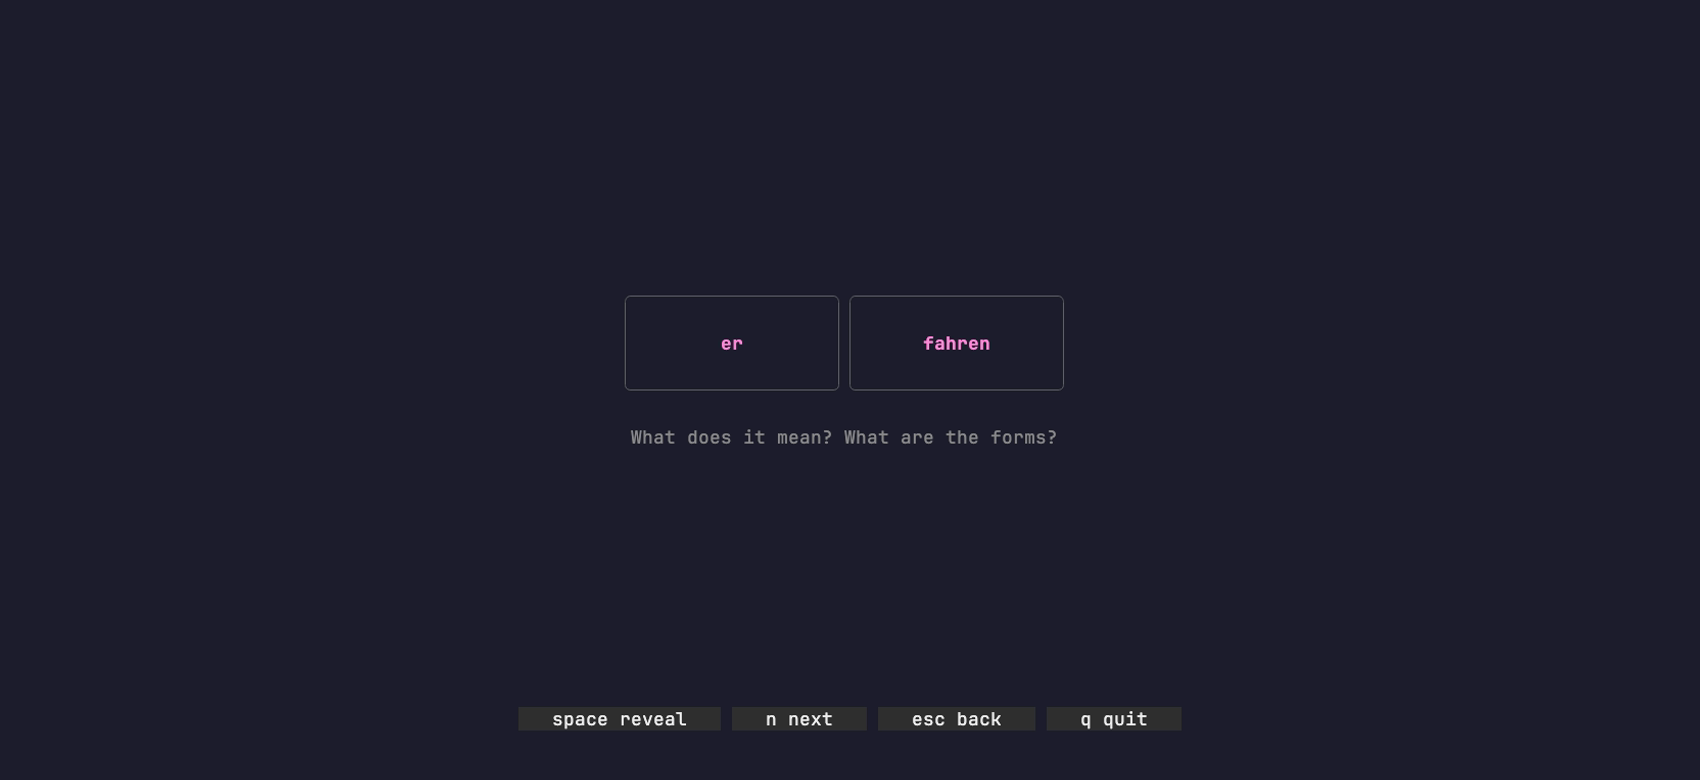
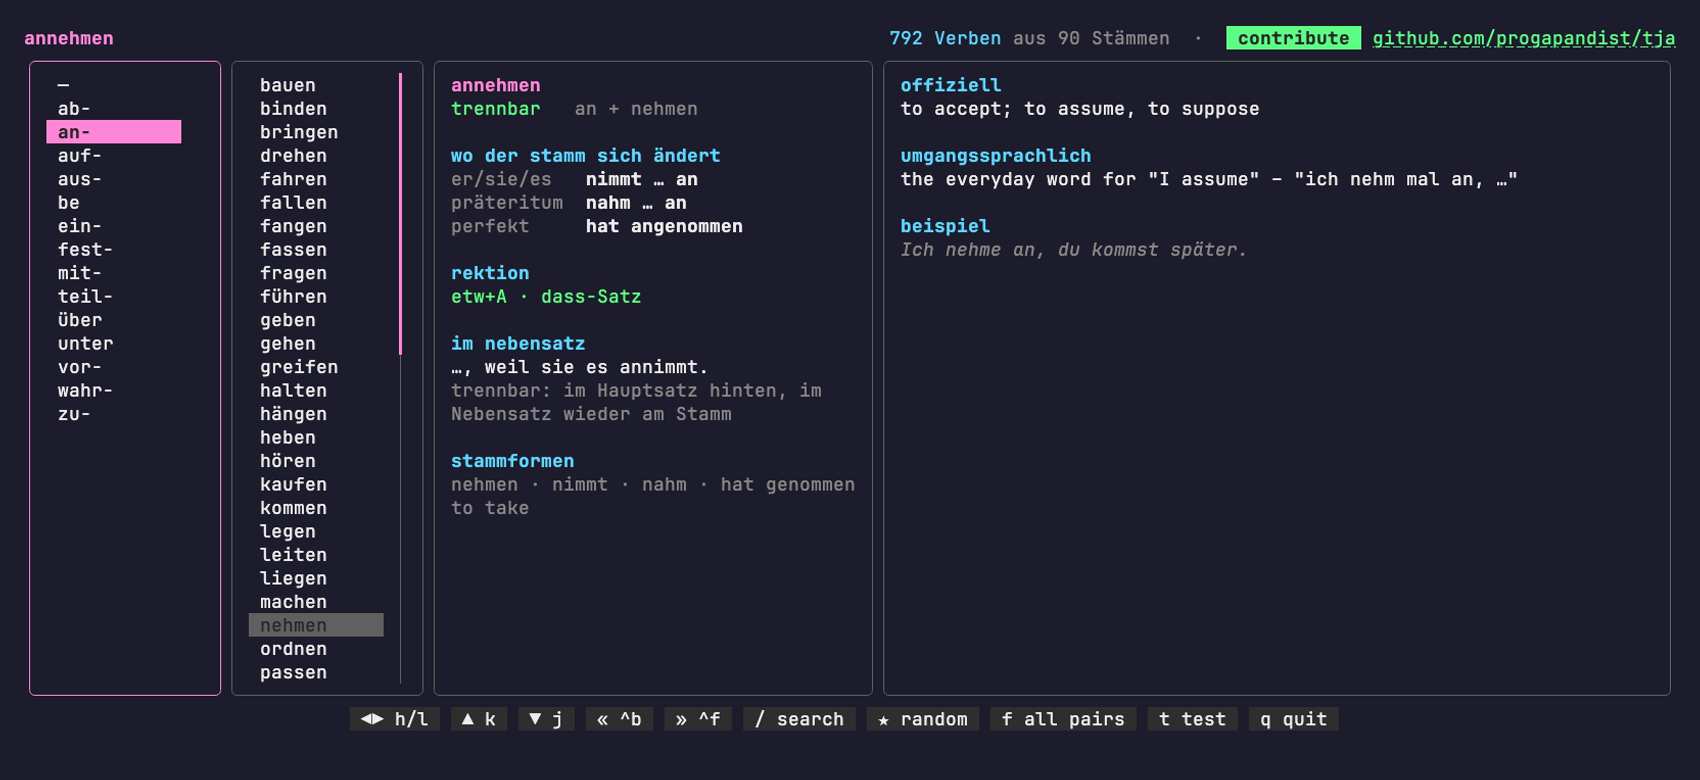
tja: lay the answer card out on a label column instead of centring every line

diff --git a/main.go b/main.go
@@ -485,32 +485,60 @@ func (m model) testView() string {
 	reel := func(s string) string {
 		return box.Width(18).Align(lipgloss.Center).Render("\n" + wordStyle.Render(s) + "\n")
 	}
-	card := []string{
-		lipgloss.JoinHorizontal(lipgloss.Top, reel(m.prefixLabel(v.Prefix())), reel(v.Stem.Name)),
-		"",
-	}
+	reels := lipgloss.JoinHorizontal(lipgloss.Top, reel(m.prefixLabel(v.Prefix())), reel(v.Stem.Name))
+
+	card := []string{reels, ""}
 	if !m.revealed {
-		card = append(card,
-			metaStyle.Render("What does it mean? What are the forms?"))
+		card = append(card, "", metaStyle.Render("What does it mean? What are the forms?"))
 	} else {
-		present, past, perfect := v.Forms()
-		wrap := lipgloss.NewStyle().Width(min(66, max(20, m.w-4)))
-		card = append(card,
-			wordStyle.Render(v.Name)+"   "+kindOf(*v),
-			formStyle.Render(present+"  ·  "+past+"  ·  "+perfect),
-			useStyle.Render(v.Use),
-			bodyStyle.Render(v.Nebensatz()),
-			"",
-			wrap.Render(headingStyle.Render("offiziell   ")+bodyStyle.Render(v.Official)),
-			wrap.Render(headingStyle.Render("umgangssprachlich   ")+bodyStyle.Render(v.Colloquial)),
-			"",
-			wrap.Render(exampleStyle.Render(v.Example)))
+		card = append(card, m.answer(v))
 	}
-	// The buttons sit on their own row at the bottom, where a thumb expects
-	// them and where a tap can be mapped back to one without guessing.
 	body := lipgloss.Place(m.w, m.h-2, lipgloss.Center, lipgloss.Center,
 		lipgloss.JoinVertical(lipgloss.Center, card...))
 	return body + "\n" + m.buttonRow(m.chips())
+}
+
+// answer is the back of the card: one fixed-width block, everything ranged
+// left on a label column, with air between the four things being said.
+func (m model) answer(v *Verb) string {
+	cw := min(64, max(28, m.w-8))
+	label := lipgloss.NewStyle().Foreground(muted).Width(13)
+	wrap := lipgloss.NewStyle().Width(cw - 2)
+
+	row := func(name, value string) string {
+		return label.Render(name) + value
+	}
+	block := func(heading, text string) []string {
+		return []string{headingStyle.Render(heading), wrap.Render("  " + text), ""}
+	}
+
+	present, past, perfect := v.Forms()
+	head := wordStyle.Render(v.Name)
+	if k := kindOf(*v); true {
+		head = pad(head, cw-lipgloss.Width(k)) + k
+	}
+	rows := []string{
+		head,
+		trackStyle.Render(strings.Repeat("─", cw)),
+		"",
+		row("er/sie/es", formStyle.Render(present)),
+		row("präteritum", formStyle.Render(past)),
+		row("perfekt", formStyle.Render(perfect)),
+		"",
+		row("rektion", useStyle.Render(v.Use)),
+		row("nebensatz", bodyStyle.Render(v.Nebensatz())),
+		"",
+	}
+	rows = append(rows, block("offiziell", bodyStyle.Render(v.Official))...)
+	rows = append(rows, block("umgangssprachlich", bodyStyle.Render(v.Colloquial))...)
+	rows = append(rows, block("beispiel", exampleStyle.Render(v.Example))...)
+
+	// Left-aligned inside a block of known width, so the card as a whole can be
+	// centred without the text going ragged.
+	for i, r := range rows {
+		rows[i] = pad(r, cw)
+	}
+	return strings.Join(rows, "\n")
 }
 
 // buttonRow lays the chips out with the gaps chips() already measured, so a
